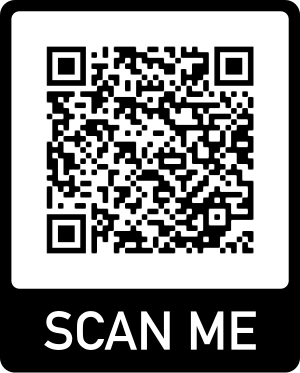
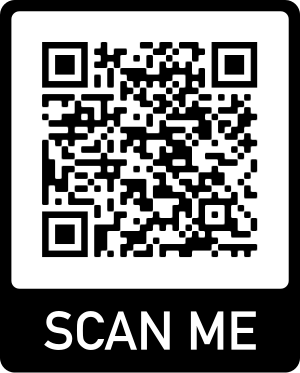
updated iaam presentation links

Changed region(s): [[0.12, 0.0885, 0.87, 0.7078]]

diff --git a/docs/202002-iaam.html b/docs/202002-iaam.html
@@ -581,8 +581,8 @@ Verifier completed successfully.
             <tr>
                 <td valign="center">
                     <ul>
-                        <li style="font-size:24px !important">slides: <a href="https://gepardec.github.io/presentations/2020-iaam-ansible-compatibility-testing">https://gepardec.github.io/presentations/202002-iaam</a></li>
-                        <li style="font-size:24px !important">pdf: <a href="https://gepardec.github.io/presentations/2020-iaam-ansible-compatibility-testing.pdf">https://gepardec.github.io/presentations/202002-iaam.pdf</a></li>
+                        <li style="font-size:24px !important">slides: <a href="https://gepardec.github.io/presentations/202002-iaam">https://gepardec.github.io/presentations/202002-iaam</a></li>
+                        <li style="font-size:24px !important">pdf: <a href="https://gepardec.github.io/presentations/202002-iaam.pdf">https://gepardec.github.io/presentations/202002-iaam.pdf</a></li>
                         <li style="font-size:24px !important">code: <a href="https://github.com/gepardec/ansible-role-example">https://github.com/gepardec/ansible-role-example</a></li>
                         <li style="font-size:24px !important">roadshow: <a href="https://events.redhat.com/profile/form/index.cfm?PKformID=0x129543abcd">Containers and Cloud-Native Road Show</a></li>
                         <li style="font-size:24px !important">author: <a href="mailto:clemens.kaserer@gepardec.com"> Clemens Kaserer</a></li>

diff --git a/docs/src/modules/202002-iaam/8-thank-you/slides.html b/docs/src/modules/202002-iaam/8-thank-you/slides.html
@@ -52,8 +52,8 @@
             <tr>
                 <td valign="center">
                     <ul>
-                        <li style="font-size:24px !important">slides: <a href="https://gepardec.github.io/presentations/2020-iaam-ansible-compatibility-testing">https://gepardec.github.io/presentations/202002-iaam</a></li>
-                        <li style="font-size:24px !important">pdf: <a href="https://gepardec.github.io/presentations/2020-iaam-ansible-compatibility-testing.pdf">https://gepardec.github.io/presentations/202002-iaam.pdf</a></li>
+                        <li style="font-size:24px !important">slides: <a href="https://gepardec.github.io/presentations/202002-iaam">https://gepardec.github.io/presentations/202002-iaam</a></li>
+                        <li style="font-size:24px !important">pdf: <a href="https://gepardec.github.io/presentations/202002-iaam.pdf">https://gepardec.github.io/presentations/202002-iaam.pdf</a></li>
                         <li style="font-size:24px !important">code: <a href="https://github.com/gepardec/ansible-role-example">https://github.com/gepardec/ansible-role-example</a></li>
                         <li style="font-size:24px !important">roadshow: <a href="https://events.redhat.com/profile/form/index.cfm?PKformID=0x129543abcd">Containers and Cloud-Native Road Show</a></li>
                         <li style="font-size:24px !important">author: <a href="mailto:clemens.kaserer@gepardec.com"> Clemens Kaserer</a></li>

diff --git a/revealjs/src/modules/202002-iaam/8-thank-you/slides.html b/revealjs/src/modules/202002-iaam/8-thank-you/slides.html
@@ -52,8 +52,8 @@
             <tr>
                 <td valign="center">
                     <ul>
-                        <li style="font-size:24px !important">slides: <a href="https://gepardec.github.io/presentations/2020-iaam-ansible-compatibility-testing">https://gepardec.github.io/presentations/202002-iaam</a></li>
-                        <li style="font-size:24px !important">pdf: <a href="https://gepardec.github.io/presentations/2020-iaam-ansible-compatibility-testing.pdf">https://gepardec.github.io/presentations/202002-iaam.pdf</a></li>
+                        <li style="font-size:24px !important">slides: <a href="https://gepardec.github.io/presentations/202002-iaam">https://gepardec.github.io/presentations/202002-iaam</a></li>
+                        <li style="font-size:24px !important">pdf: <a href="https://gepardec.github.io/presentations/202002-iaam.pdf">https://gepardec.github.io/presentations/202002-iaam.pdf</a></li>
                         <li style="font-size:24px !important">code: <a href="https://github.com/gepardec/ansible-role-example">https://github.com/gepardec/ansible-role-example</a></li>
                         <li style="font-size:24px !important">roadshow: <a href="https://events.redhat.com/profile/form/index.cfm?PKformID=0x129543abcd">Containers and Cloud-Native Road Show</a></li>
                         <li style="font-size:24px !important">author: <a href="mailto:clemens.kaserer@gepardec.com"> Clemens Kaserer</a></li>
